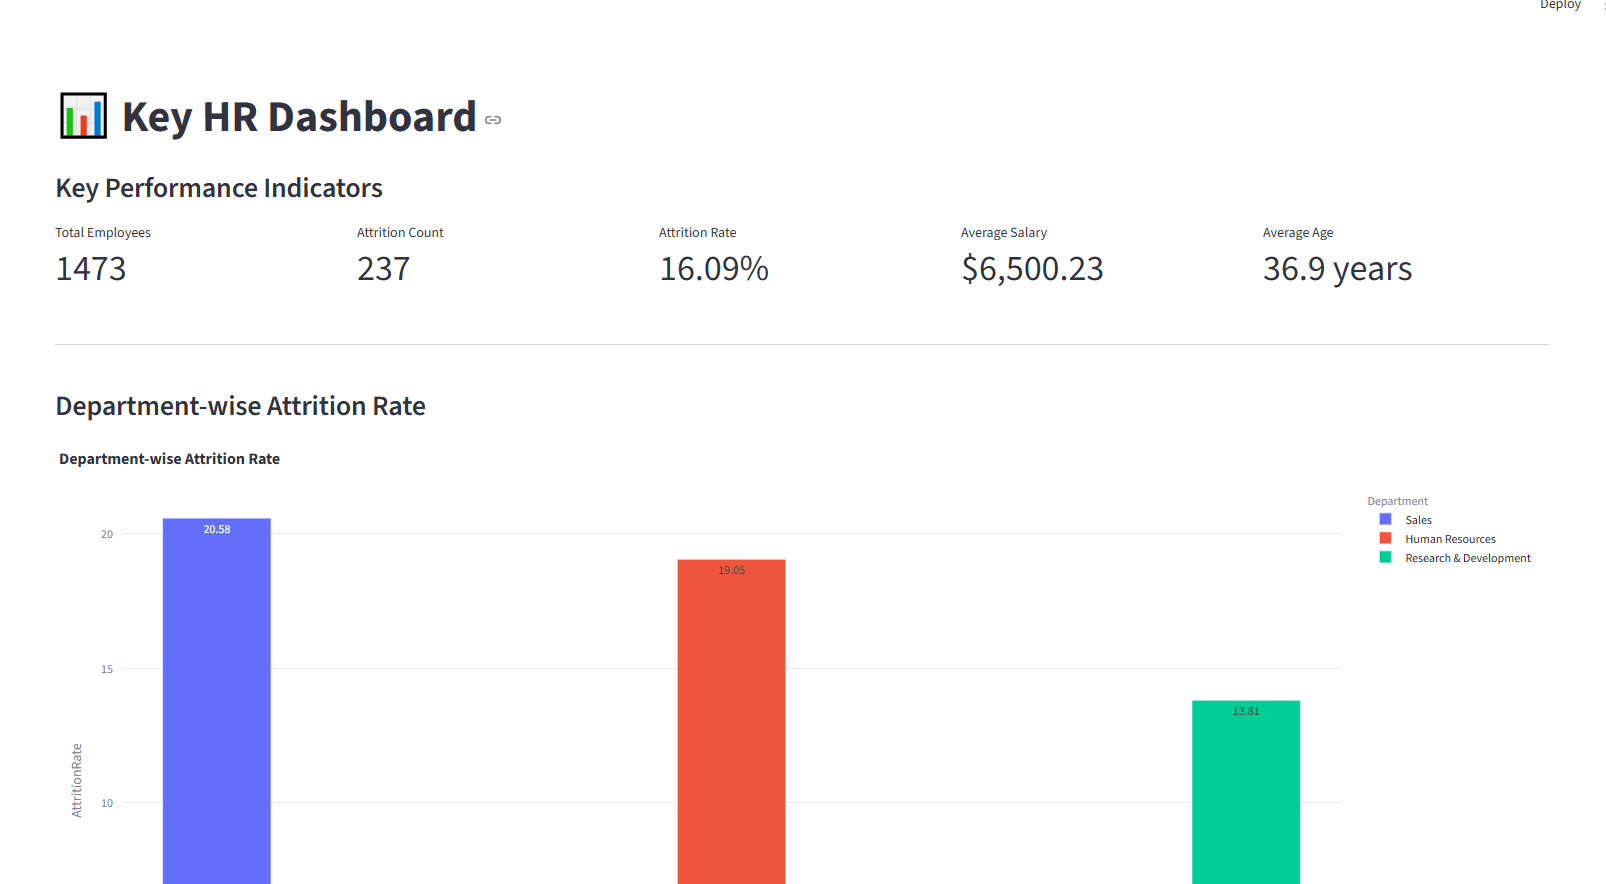
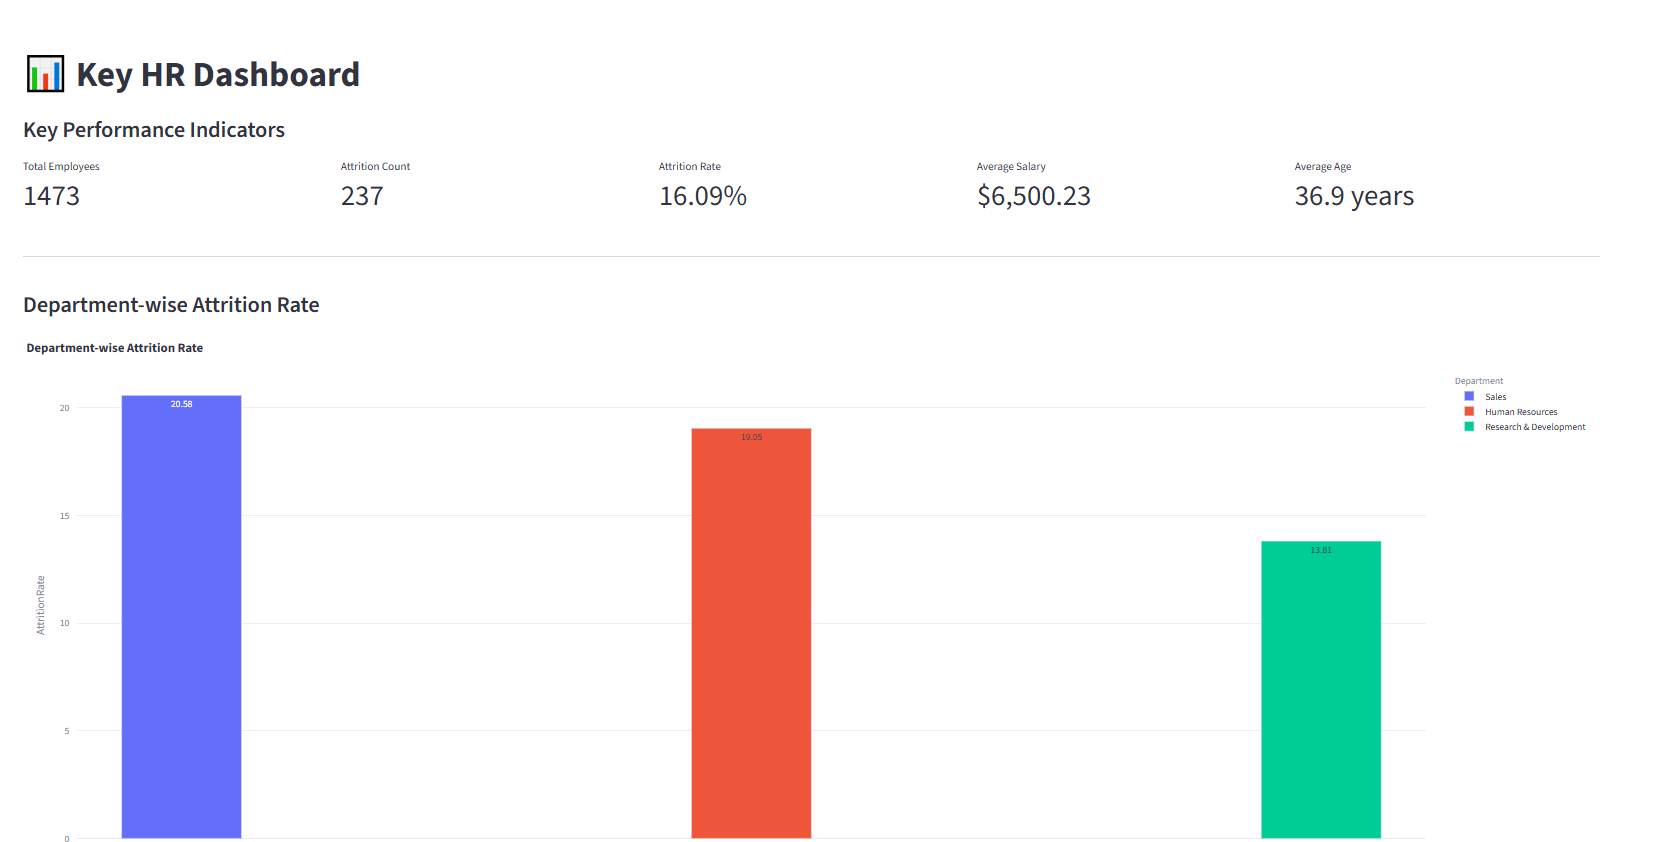
Readme_updated

diff --git a/README.md b/README.md
@@ -106,7 +106,7 @@ This application can be deployed on various platforms that support Streamlit app
 ![Dashboard Screenshot](https://via.placeholder.com/800x450?text=Dashboard+Page+Screenshot)
 
 ### EDA Visualizations
-![EDA Screenshot](https://via.placeholder.com/800x450?text=EDA+Page+Screenshot)
+![EDA Screenshot](dashboard_preview/Exploratory_Data_Analysis.png)
 
 ## 📈 Power BI Dashboard (If Available)
 
